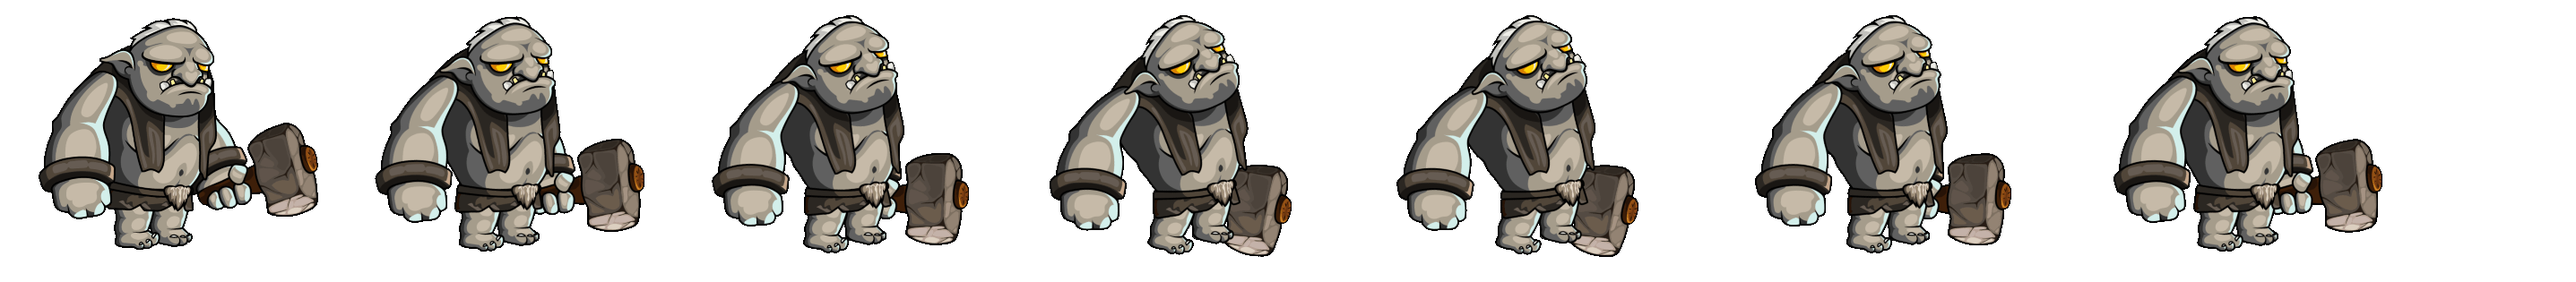
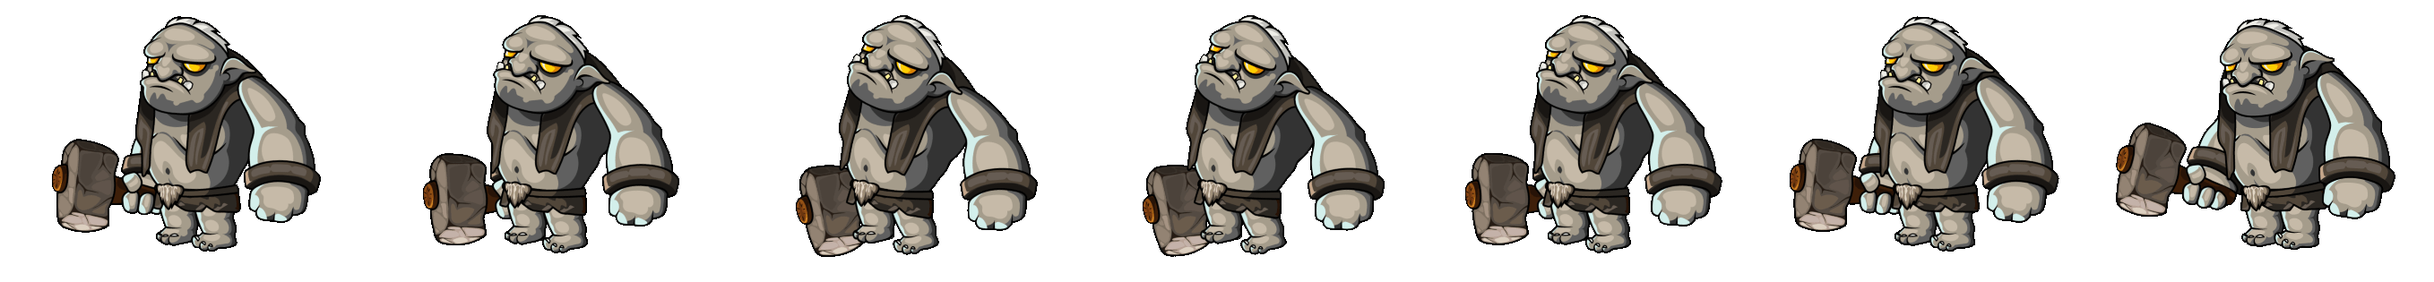
Fixed trolls and knights animations

diff --git a/main.js b/main.js
@@ -14,6 +14,7 @@ const homeScreen = document.querySelector('#homeScreen');
 const board = document.querySelector('#game > main');
 const selectionScreen = document.querySelector('#selectionScreen>main');
 const finalScreen = document.querySelector('#finalScreen');
+const turnCard = document.querySelector('#changeTurn');
 
 const context = canvas.getContext('2d');
 
@@ -126,20 +127,44 @@ const controlUnits = e => {
       if (e.target.className.includes('highlight')) {
         attacker.currentAnimation.setGoal(getTileCoordinates(e.target));
         playerPlaying.movementsLeft--;
+        setTimeout(() => {
+          if (playerPlaying.movementsLeft === 0) {
+            if (playerPlaying === playerOne) {
+              playerTwo.movementsLeft = 2;
+              playerPlaying = playerTwo;
+              playerWaiting = playerOne;
+            } else {
+              playerOne.movementsLeft = 2;
+              playerPlaying = playerOne;
+              playerWaiting = playerTwo;
+            }
+            changeTurn();
+          }
+        }, 1500);
       } else if (e.target.className.includes('combat-ready')) {
         gameState = false;
         defender = playerWaiting.getUnitByTile(e.target);
-        console.log(defender.health, 'hp before');
         battle(attacker, defender);
-        console.log(defender.health, 'hp after');
-        setTimeout(() => {
-          gameState = true;
-          attacker = undefined;
-        }, 3500);
         [...document.querySelectorAll('[tile]')].forEach(tile => {
           tile.className = '';
         });
         playerPlaying.movementsLeft--;
+        setTimeout(() => {
+          gameState = true;
+          attacker = undefined;
+          if (playerPlaying.movementsLeft === 0 && playerWaiting.units.length !== 1 && defender.health > 0) {
+            if (playerPlaying === playerOne) {
+              playerTwo.movementsLeft = 2;
+              playerPlaying = playerTwo;
+              playerWaiting = playerOne;
+            } else {
+              playerOne.movementsLeft = 2;
+              playerPlaying = playerOne;
+              playerWaiting = playerTwo;
+            }
+            changeTurn();
+          }
+        }, 3500);
         return;
       }
       [...document.querySelectorAll('[tile]')].forEach(tile => {
@@ -160,19 +185,17 @@ board.onclick = controlUnits;
 
 board.onmouseout = () => {
   console.log(playerPlaying.movementsLeft);
-  if (playerPlaying.movementsLeft === 0) {
-    if (playerPlaying === playerOne) {
-      playerTwo.movementsLeft = 2;
-      playerPlaying = playerTwo;
-      playerWaiting = playerOne;
-      changeTurn();
-    } else {
-      playerOne.movementsLeft = 2;
-      playerPlaying = playerOne;
-      playerWaiting = playerTwo;
-      changeTurn();
-    }
-  }
+  // if (playerPlaying.movementsLeft === 0) {
+  //   if (playerPlaying === playerOne) {
+  //     playerTwo.movementsLeft = 2;
+  //     playerPlaying = playerTwo;
+  //     playerWaiting = playerOne;
+  //   } else {
+  //     playerOne.movementsLeft = 2;
+  //     playerPlaying = playerOne;
+  //     playerWaiting = playerTwo;
+  //   }
+  // }
 };
 
 function requestIntro() {
@@ -195,7 +218,6 @@ function stopIntro() {
 }
 
 function changeTurn() {
-  const turnCard = document.querySelector('#changeTurn');
   turnCard.children[0].children[0].innerHTML = playerPlaying === playerOne ? 'Player 1' : 'Player 2';
   turnCard.children[0].className = playerPlaying === playerOne ? 'fs-bg-red' : 'fs-bg-blue';
   turnCard.style.display = '';
@@ -274,6 +296,10 @@ newGameButton.onclick = () => {
   clearVariables();
   startIntro();
   document.querySelector('#selectionScreen').style.display = '';
+};
+
+turnCard.onclick = () => {
+  turnCard.style.display = 'none';
 };
 
 // document.body.onload = () => {

diff --git a/troll.js b/troll.js
@@ -18,7 +18,7 @@ class GreenTroll extends Character {
           numberOfFrames: 6,
           loop: true,
           ticksPerFrame: 4,
-          scale: 0.3
+          scale: 0.35
         },
         walk: {
           context,
@@ -29,7 +29,7 @@ class GreenTroll extends Character {
           numberOfFrames: 6,
           loop: true,
           ticksPerFrame: 4,
-          scale: 0.3
+          scale: 0.4
         },
         attack: {
           context,
@@ -51,7 +51,7 @@ class GreenTroll extends Character {
           numberOfFrames: 6,
           loop: true,
           ticksPerFrame: 4,
-          scale: 0.45
+          scale: 0.5
         },
         dead: {
           context,
@@ -68,6 +68,14 @@ class GreenTroll extends Character {
       'trolls',
       { x: 2, y: 2 }
     );
+  }
+
+  setBattleAnimation() {
+    this.sprites.attack.position = { x: 55, y: 172 };
+  }
+
+  setHurtAnimation() {
+    this.sprites.hurt.position = { x: 420, y: 250 };
   }
 }
 
@@ -99,7 +107,7 @@ class GrayTroll extends Character {
           numberOfFrames: 6,
           loop: true,
           ticksPerFrame: 4,
-          scale: 0.35
+          scale: 0.4
         },
         attack: {
           context,
@@ -139,6 +147,9 @@ class GrayTroll extends Character {
       { x: 2, y: 2 }
     );
   }
+  setBattleAnimation() {
+    this.sprites.attack.position = { x: 55, y: 172 };
+  }
 }
 
 class RedTroll extends Character {
@@ -169,7 +180,7 @@ class RedTroll extends Character {
           numberOfFrames: 6,
           loop: true,
           ticksPerFrame: 4,
-          scale: 0.35
+          scale: 0.4
         },
         attack: {
           context,
@@ -208,6 +219,9 @@ class RedTroll extends Character {
       'trolls',
       { x: 2, y: 2 }
     );
+  }
+  setBattleAnimation() {
+    this.sprites.attack.position = { x: 55, y: 172 };
   }
 }
 
